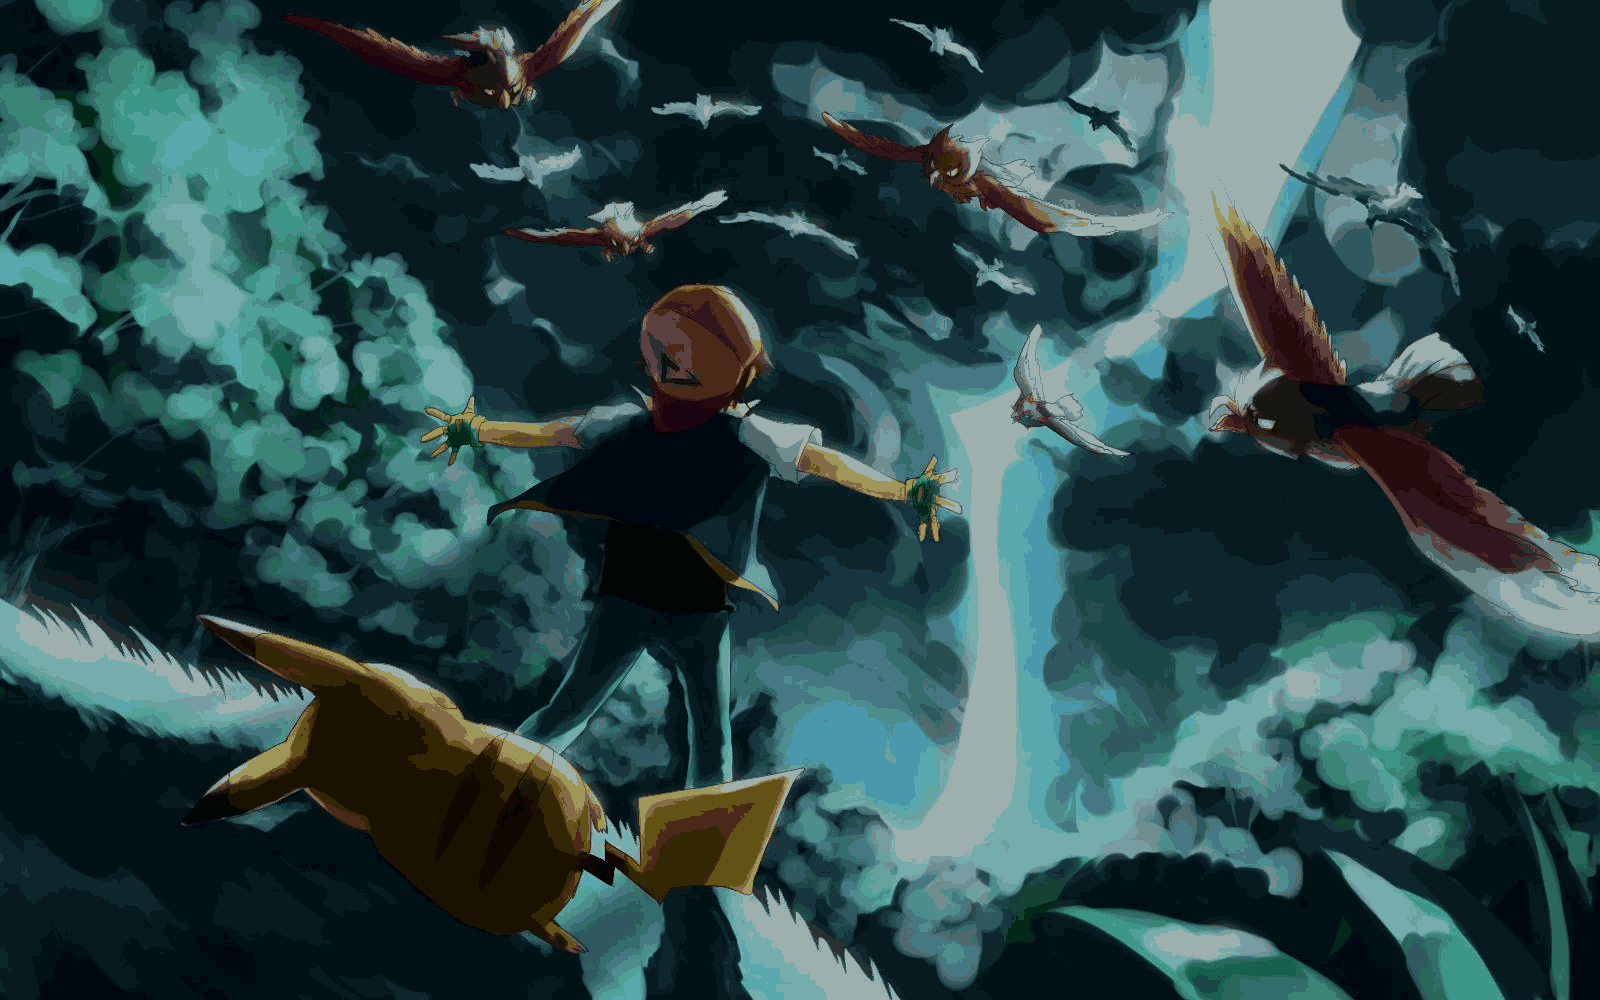
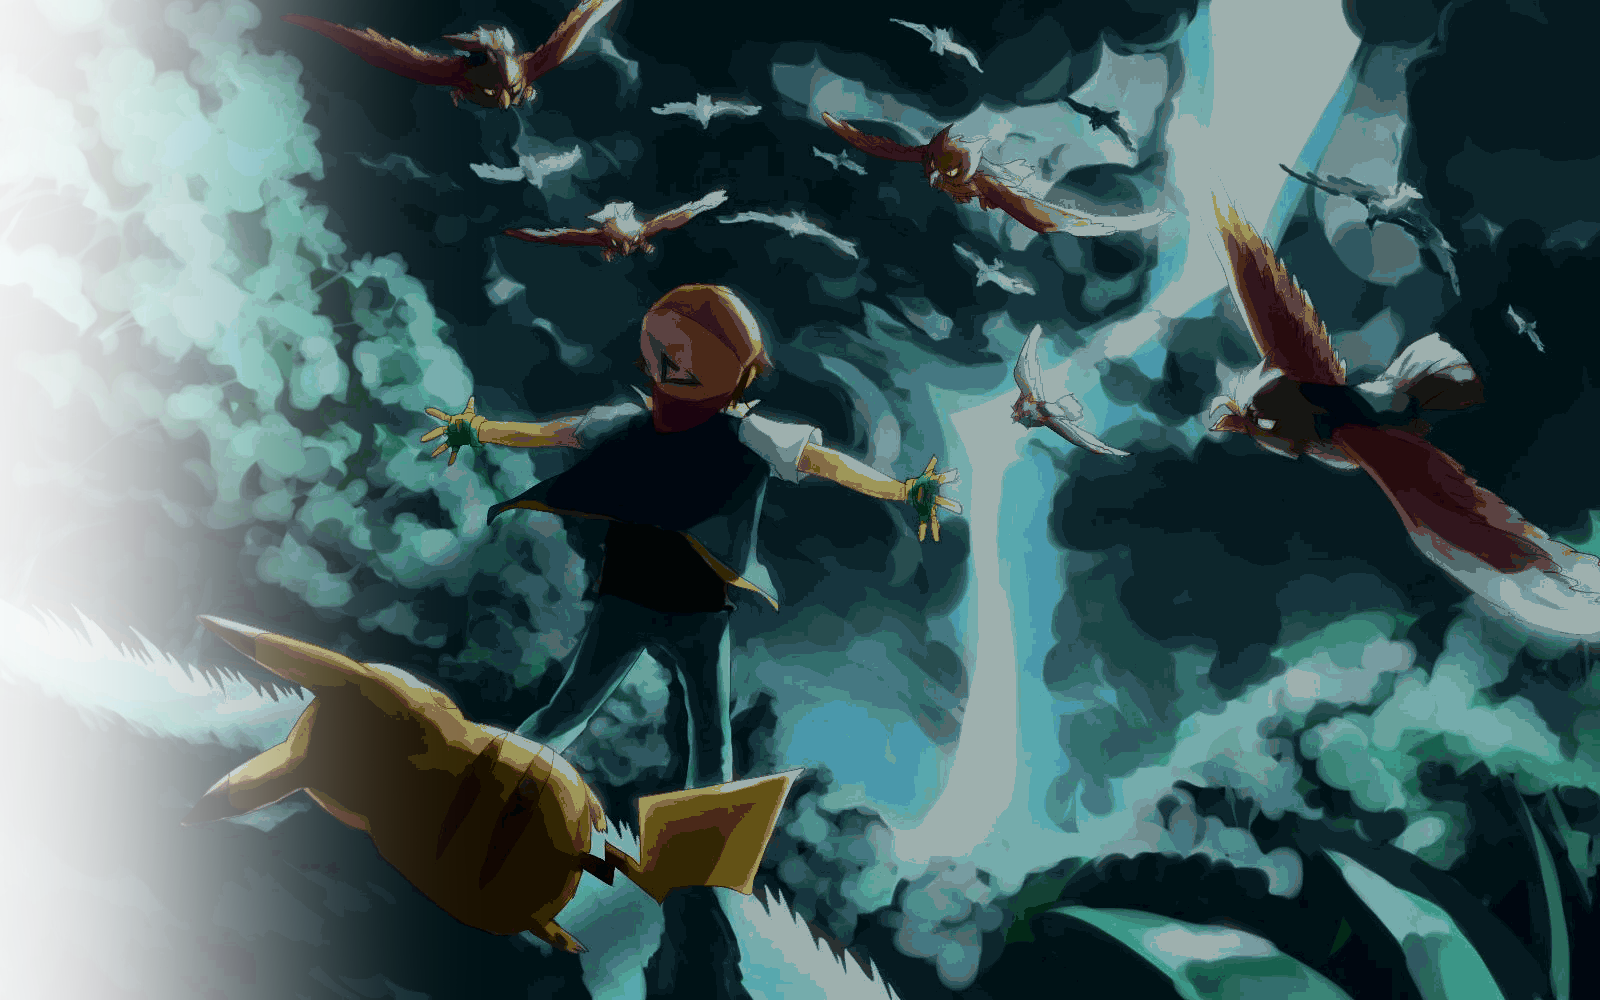
Add files via upload

Changed region(s): [[0.0, 0.0, 0.25, 1.0]]

diff --git a/style.css b/style.css
@@ -1,7 +1,7 @@
 @charset "UTF-8";
 
 :root{
-    --fondo: #4f4cab;
+    --fondo: rgb(6, 26, 32);
     --figura: #d0d6ea;
 }
 
@@ -17,7 +17,7 @@ body {
 }
 
 body.portada{
-    background:var(--fondo) url('images/wp4716666.png') right bottom no-repeat;
+    background:var(--fondo) url('images/332.png') right bottom no-repeat;
     background-size:auto 100%;
 }
 
